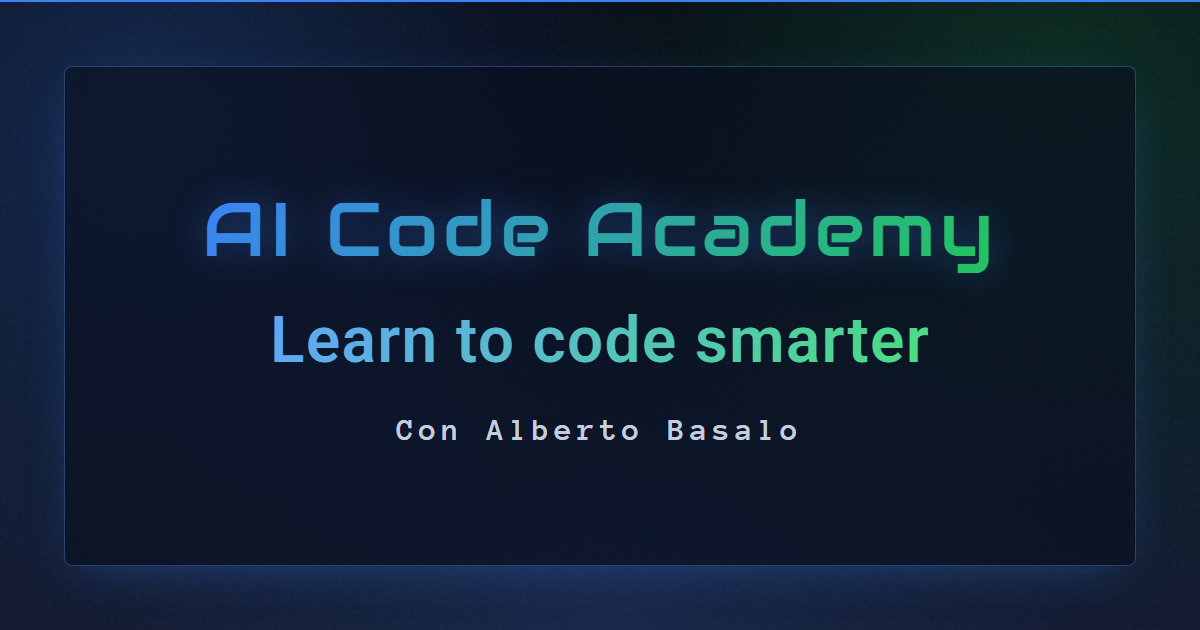
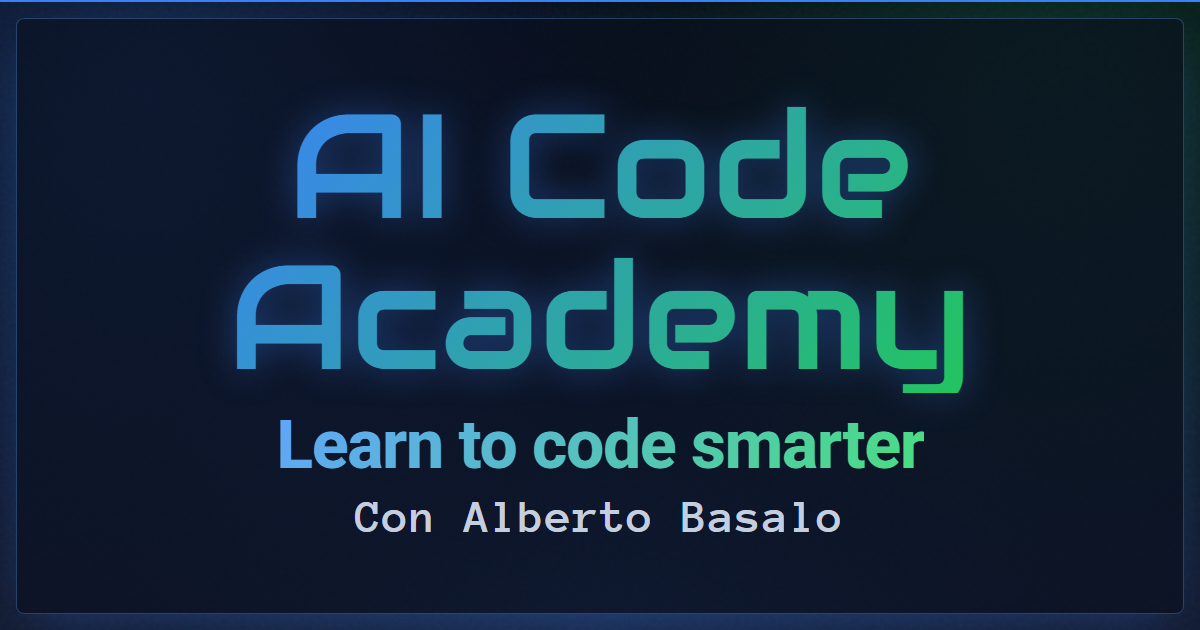
Release

diff --git a/temp/og-image.html b/temp/og-image.html
@@ -50,7 +50,7 @@
       display: flex;
       align-items: center;
       justify-content: center;
-      padding: 64px;
+      padding: 16px;
       border-top: 2px solid #3b82f6;
     }
 
@@ -61,7 +61,8 @@
       flex-direction: column;
       align-items: center;
       justify-content: center;
-      gap: 28px;
+      gap: 8px;
+      padding: 8px 12px;
       background: rgba(9, 15, 31, 0.64);
       border: 1px solid rgba(96, 165, 250, 0.32);
       border-radius: 8px;
@@ -72,9 +73,10 @@
     .brand {
       font-family: "Audiowide", "Roboto", sans-serif;
       font-weight: 400;
-      font-size: 76px;
-      letter-spacing: 0.06em;
-      line-height: 1.15;
+      font-size: 148px;
+      letter-spacing: 0;
+      line-height: 1.02;
+      max-width: 100%;
       background: linear-gradient(130deg, #3b82f6 0%, #22c55e 100%);
       -webkit-background-clip: text;
       background-clip: text;
@@ -84,9 +86,11 @@
 
     .tagline {
       font-family: "Roboto", sans-serif;
-      font-weight: 600;
-      font-size: 64px;
-      letter-spacing: 0.02em;
+      font-weight: 800;
+      font-size: 68px;
+      letter-spacing: -0.02em;
+      line-height: 1.05;
+      margin-top: 8px;
       background: linear-gradient(130deg, #60a5fa 0%, #4ade80 100%);
       -webkit-background-clip: text;
       background-clip: text;
@@ -96,10 +100,10 @@
     .url {
       font-family: "Anonymous Pro", monospace;
       font-weight: 700;
-      font-size: 32px;
-      letter-spacing: 0.16em;
+      font-size: 48px;
+      letter-spacing: 0.02em;
       color: #c4cede;
-      margin-top: 8px;
+      margin-top: 4px;
     }
   </style>
 </head>
@@ -107,7 +111,7 @@
 <body>
   <div class="frame">
     <div class="card">
-      <h1 class="brand">AI Code Academy</h1>
+      <h1 class="brand">AI Code<br />Academy</h1>
       <p class="tagline">Learn to code smarter</p>
       <p class="url">Con Alberto Basalo</p>
     </div>
